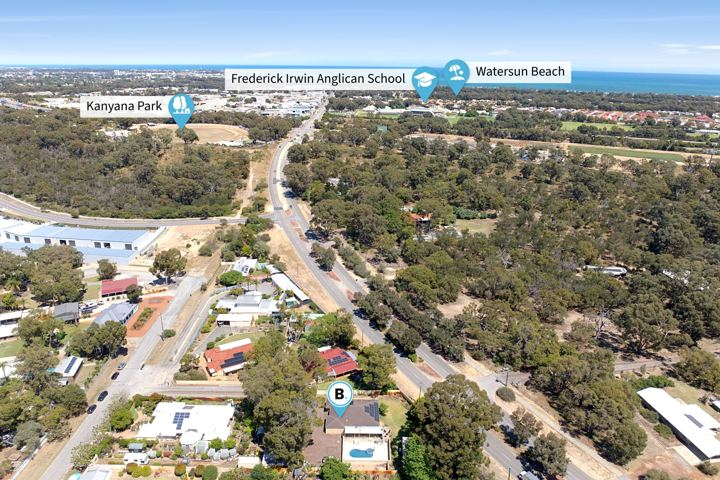
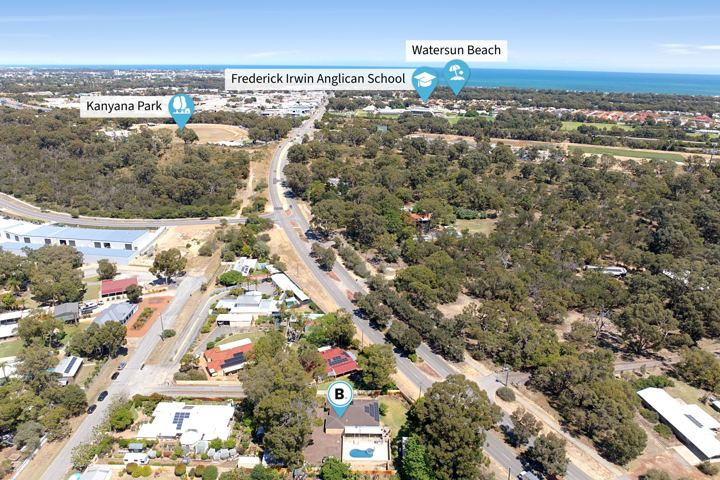
14 Palomino: school/beach labels re-laid (beach label above its pin)
Claude-Session: https://claude.ai/code/session_01A5qGg2LnJXxgSHoMQFvEEG

Changed region(s): [[0.55, 0.0625, 0.7944, 0.1875]]

diff --git a/aerials/02-nov-2026/index.html b/aerials/02-nov-2026/index.html
@@ -5,4 +5,4 @@ body{margin:0;background:var(--bg);color:var(--fg);font:15px/1.45 system-ui,-app
 header,section{max-width:1400px;margin:auto;padding:18px 16px}h1{font-size:20px;margin:0}h2{font-size:17px;margin:0}header p,section p{color:var(--mut);margin:4px 0 0}
 .ed{margin-left:10px;color:var(--acc);font-weight:600;text-decoration:none}a{color:var(--acc)}
 .chk{margin-top:10px}.chk summary{cursor:pointer;color:var(--mut);font-weight:600}.chk iframe{width:100%;height:420px;border:0;border-radius:6px;margin-top:6px;background:#111}.g{display:grid;grid-template-columns:repeat(auto-fill,minmax(280px,1fr));gap:8px;margin-top:10px}.g img{width:100%;display:block;border-radius:4px}</style></head>
-<body><header><h1>Drone edits — Mon 2 Nov 2026</h1><p>Tap a photo for full size. <b>Edit</b> opens the job in the <a href="/pins/">editor</a> with all its pins and settings.</p></header><section><h2>14 Palomino Pl, Greenfields WA 6210</h2><p>David Beshay · Beshay Realty · 7 photos (top-downs first) <a class="ed" href="/pins/?open=02-nov-2026/14_palomino_pl">Edit</a><a class="ed" href="/lots/?img=/aerials/02-nov-2026/14_palomino_pl/src/DJI_20261102132705_0002_D_r270.jpg&street=Palomino%20Place" target="_blank">Lots</a><a class="ed" href="14_palomino_pl/check.html" target="_blank">Check map</a></p><div class="g"><a href="14_palomino_pl/DJI_20261102132705_0002_D_r270.jpg?v=1793760000" target="_blank"><img loading="lazy" src="14_palomino_pl/t/DJI_20261102132705_0002_D_r270.jpg?v=1793760000" alt=""></a><a href="14_palomino_pl/DJI_20261102132642_0001_D_r270.jpg?v=1793760000" target="_blank"><img loading="lazy" src="14_palomino_pl/t/DJI_20261102132642_0001_D_r270.jpg?v=1793760000" alt=""></a><a href="14_palomino_pl/DJI_20261102132733_0003_D.jpg?v=1793760000" target="_blank"><img loading="lazy" src="14_palomino_pl/t/DJI_20261102132733_0003_D.jpg?v=1793760000" alt=""></a><a href="14_palomino_pl/DJI_20261102132745_0004_D.jpg?v=1793760000" target="_blank"><img loading="lazy" src="14_palomino_pl/t/DJI_20261102132745_0004_D.jpg?v=1793760000" alt=""></a><a href="14_palomino_pl/DJI_20261102132803_0005_D.jpg?v=1793760000" target="_blank"><img loading="lazy" src="14_palomino_pl/t/DJI_20261102132803_0005_D.jpg?v=1793760000" alt=""></a><a href="14_palomino_pl/DJI_20261102132828_0006_D.jpg?v=1793760000" target="_blank"><img loading="lazy" src="14_palomino_pl/t/DJI_20261102132828_0006_D.jpg?v=1793760000" alt=""></a><a href="14_palomino_pl/DJI_20261102132849_0007_D.jpg?v=1793760000" target="_blank"><img loading="lazy" src="14_palomino_pl/t/DJI_20261102132849_0007_D.jpg?v=1793760000" alt=""></a></div><details class="chk" open><summary>Quick check — boundary + 7 pinned places</summary><iframe loading="lazy" src="14_palomino_pl/check.html?v=1793662742" title="Boundary and places check"></iframe></details></section><section><h2>32B Hetherington Dr, Bull Creek WA 6149</h2><p>Raymond Chen · Top Realty · 8 photos (top-downs first) <a class="ed" href="/pins/?open=02-nov-2026/32b_hetherington_dr">Edit</a><a class="ed" href="/lots/?img=/aerials/02-nov-2026/32b_hetherington_dr/src/dji_fly_20261102_120130_0118_1793624048044_photo_r180.jpg&street=Hetherington%20Drive" target="_blank">Lots</a><a class="ed" href="32b_hetherington_dr/check.html" target="_blank">Check map</a></p><div class="g"><a href="32b_hetherington_dr/dji_fly_20261102_120130_0118_1793624048044_photo_r180.jpg?v=1793662746" target="_blank"><img loading="lazy" src="32b_hetherington_dr/t/dji_fly_20261102_120130_0118_1793624048044_photo_r180.jpg?v=1793662746" alt=""></a><a href="32b_hetherington_dr/dji_fly_20261102_120116_0117_1793624048701_photo_r90.jpg?v=1793662746" target="_blank"><img loading="lazy" src="32b_hetherington_dr/t/dji_fly_20261102_120116_0117_1793624048701_photo_r90.jpg?v=1793662746" alt=""></a><a href="32b_hetherington_dr/dji_fly_20261102_120204_0119_1793624047389_photo.jpg?v=1793662746" target="_blank"><img loading="lazy" src="32b_hetherington_dr/t/dji_fly_20261102_120204_0119_1793624047389_photo.jpg?v=1793662746" alt=""></a><a href="32b_hetherington_dr/dji_fly_20261102_120232_0120_1793624046706_photo.jpg?v=1793662746" target="_blank"><img loading="lazy" src="32b_hetherington_dr/t/dji_fly_20261102_120232_0120_1793624046706_photo.jpg?v=1793662746" alt=""></a><a href="32b_hetherington_dr/dji_fly_20261102_120314_0121_1793624046011_photo.jpg?v=1793662746" target="_blank"><img loading="lazy" src="32b_hetherington_dr/t/dji_fly_20261102_120314_0121_1793624046011_photo.jpg?v=1793662746" alt=""></a><a href="32b_hetherington_dr/dji_fly_20261102_120404_0123_1793624044695_photo.jpg?v=1793662746" target="_blank"><img loading="lazy" src="32b_hetherington_dr/t/dji_fly_20261102_120404_0123_1793624044695_photo.jpg?v=1793662746" alt=""></a><a href="32b_hetherington_dr/dji_fly_20261102_120458_0125_1793624043444_photo.jpg?v=1793662746" target="_blank"><img loading="lazy" src="32b_hetherington_dr/t/dji_fly_20261102_120458_0125_1793624043444_photo.jpg?v=1793662746" alt=""></a><a href="32b_hetherington_dr/dji_fly_20261102_120518_0126_1793624042763_photo.jpg?v=1793662746" target="_blank"><img loading="lazy" src="32b_hetherington_dr/t/dji_fly_20261102_120518_0126_1793624042763_photo.jpg?v=1793662746" alt=""></a></div><details class="chk" open><summary>Quick check — boundary + 12 pinned places</summary><iframe loading="lazy" src="32b_hetherington_dr/check.html?v=1793662749" title="Boundary and places check"></iframe></details></section><section><h2>3 Bundalla Ct, Kelmscott WA 6111</h2><p>Naomi Nation (owner) · 11 photos (top-downs first) <a class="ed" href="/pins/?open=02-nov-2026/3_bundalla_ct">Edit</a><a class="ed" href="/lots/?img=/aerials/02-nov-2026/3_bundalla_ct/src/dji_fly_20261102_123202_0964_1793609126302_photo_r90.JPG&street=Bundalla%20Court" target="_blank">Lots</a><a class="ed" href="3_bundalla_ct/check.html" target="_blank">Check map</a></p><div class="g"><a href="3_bundalla_ct/dji_fly_20261102_123202_0964_1793609126302_photo_r90.jpg?v=1793750000" target="_blank"><img loading="lazy" src="3_bundalla_ct/t/dji_fly_20261102_123202_0964_1793609126302_photo_r90.jpg?v=1793750000" alt=""></a><a href="3_bundalla_ct/dji_fly_20261102_123204_0965_1793609124788_photo.jpg?v=1793662759" target="_blank"><img loading="lazy" src="3_bundalla_ct/t/dji_fly_20261102_123204_0965_1793609124788_photo.jpg?v=1793662759" alt=""></a><a href="3_bundalla_ct/dji_fly_20261102_122642_0955_1793609139081_photo.jpg?v=1793662759" target="_blank"><img loading="lazy" src="3_bundalla_ct/t/dji_fly_20261102_122642_0955_1793609139081_photo.jpg?v=1793662759" alt=""></a><a href="3_bundalla_ct/dji_fly_20261102_122920_0956_1793609137586_photo.jpg?v=1793662759" target="_blank"><img loading="lazy" src="3_bundalla_ct/t/dji_fly_20261102_122920_0956_1793609137586_photo.jpg?v=1793662759" alt=""></a><a href="3_bundalla_ct/dji_fly_20261102_122934_0957_1793609136345_photo.jpg?v=1793662759" target="_blank"><img loading="lazy" src="3_bundalla_ct/t/dji_fly_20261102_122934_0957_1793609136345_photo.jpg?v=1793662759" alt=""></a><a href="3_bundalla_ct/dji_fly_20261102_122952_0958_1793609134672_photo.jpg?v=1793662759" target="_blank"><img loading="lazy" src="3_bundalla_ct/t/dji_fly_20261102_122952_0958_1793609134672_photo.jpg?v=1793662759" alt=""></a><a href="3_bundalla_ct/dji_fly_20261102_123010_0959_1793609132937_photo.jpg?v=1793662759" target="_blank"><img loading="lazy" src="3_bundalla_ct/t/dji_fly_20261102_123010_0959_1793609132937_photo.jpg?v=1793662759" alt=""></a><a href="3_bundalla_ct/dji_fly_20261102_123040_0960_1793609131670_photo.jpg?v=1793662759" target="_blank"><img loading="lazy" src="3_bundalla_ct/t/dji_fly_20261102_123040_0960_1793609131670_photo.jpg?v=1793662759" alt=""></a><a href="3_bundalla_ct/dji_fly_20261102_123102_0961_1793609130439_photo.jpg?v=1793662759" target="_blank"><img loading="lazy" src="3_bundalla_ct/t/dji_fly_20261102_123102_0961_1793609130439_photo.jpg?v=1793662759" alt=""></a><a href="3_bundalla_ct/dji_fly_20261102_123116_0962_1793609128996_photo.jpg?v=1793662759" target="_blank"><img loading="lazy" src="3_bundalla_ct/t/dji_fly_20261102_123116_0962_1793609128996_photo.jpg?v=1793662759" alt=""></a><a href="3_bundalla_ct/dji_fly_20261102_123128_0963_1793609127652_photo.jpg?v=1793662759" target="_blank"><img loading="lazy" src="3_bundalla_ct/t/dji_fly_20261102_123128_0963_1793609127652_photo.jpg?v=1793662759" alt=""></a></div><details class="chk" open><summary>Quick check — boundary + 19 pinned places</summary><iframe loading="lazy" src="3_bundalla_ct/check.html?v=1793662762" title="Boundary and places check"></iframe></details></section><section><h2>14 Graceful St, Byford WA 6122</h2><p>Lou Smith · Harcourts · 9 photos (top-downs first) <a class="ed" href="/pins/?open=02-nov-2026/14_graceful_st">Edit</a><a class="ed" href="/lots/?img=/aerials/02-nov-2026/14_graceful_st/src/DJI_20261102201951_0035_D.jpg&street=Graceful%20Street" target="_blank">Lots</a><a class="ed" href="14_graceful_st/check.html" target="_blank">Check map</a></p><div class="g"><a href="14_graceful_st/DJI_20261102201951_0035_D.jpg?v=1793662765" target="_blank"><img loading="lazy" src="14_graceful_st/t/DJI_20261102201951_0035_D.jpg?v=1793662765" alt=""></a><a href="14_graceful_st/DJI_20261102201940_0034_D_r90.jpg?v=1793740000" target="_blank"><img loading="lazy" src="14_graceful_st/t/DJI_20261102201940_0034_D_r90.jpg?v=1793740000" alt=""></a><a href="14_graceful_st/DJI_20261102202018_0036_D.jpg?v=1793662765" target="_blank"><img loading="lazy" src="14_graceful_st/t/DJI_20261102202018_0036_D.jpg?v=1793662765" alt=""></a><a href="14_graceful_st/DJI_20261102202056_0038_D.jpg?v=1793662765" target="_blank"><img loading="lazy" src="14_graceful_st/t/DJI_20261102202056_0038_D.jpg?v=1793662765" alt=""></a><a href="14_graceful_st/DJI_20261102202114_0039_D.jpg?v=1793662765" target="_blank"><img loading="lazy" src="14_graceful_st/t/DJI_20261102202114_0039_D.jpg?v=1793662765" alt=""></a><a href="14_graceful_st/DJI_20261102202130_0040_D.jpg?v=1793662765" target="_blank"><img loading="lazy" src="14_graceful_st/t/DJI_20261102202130_0040_D.jpg?v=1793662765" alt=""></a><a href="14_graceful_st/DJI_20261102202149_0041_D.jpg?v=1793662765" target="_blank"><img loading="lazy" src="14_graceful_st/t/DJI_20261102202149_0041_D.jpg?v=1793662765" alt=""></a><a href="14_graceful_st/DJI_20261102202206_0042_D.jpg?v=1793662765" target="_blank"><img loading="lazy" src="14_graceful_st/t/DJI_20261102202206_0042_D.jpg?v=1793662765" alt=""></a><a href="14_graceful_st/DJI_20261102202224_0043_D.jpg?v=1793662765" target="_blank"><img loading="lazy" src="14_graceful_st/t/DJI_20261102202224_0043_D.jpg?v=1793662765" alt=""></a></div><details class="chk" open><summary>Quick check — boundary + 11 pinned places</summary><iframe loading="lazy" src="14_graceful_st/check.html?v=1793662766" title="Boundary and places check"></iframe></details></section><section><h2>22 Sandridge St, Gosnells WA 6110</h2><p>Danny Sharrett · Century 21 Team Brockhurst · 10 photos (top-downs first) <a class="ed" href="/pins/?open=02-nov-2026/22_sandridge_st">Edit</a><a class="ed" href="/lots/?img=/aerials/02-nov-2026/22_sandridge_st/src/DJI_20261102175303_0025_D.jpg&street=Sandridge%20Street" target="_blank">Lots</a><a class="ed" href="22_sandridge_st/check.html" target="_blank">Check map</a></p><div class="g"><a href="22_sandridge_st/22_sandridge_st_potential_lots.jpg" target="_blank"><img loading="lazy" src="22_sandridge_st/t/22_sandridge_st_potential_lots.jpg" alt="Potential 2 lots"></a><a href="22_sandridge_st/DJI_20261102175303_0025_D.jpg?v=1793730000" target="_blank"><img loading="lazy" src="22_sandridge_st/t/DJI_20261102175303_0025_D.jpg?v=1793730000" alt=""></a><a href="22_sandridge_st/DJI_20261102175251_0024_D_r270.jpg?v=1793740000" target="_blank"><img loading="lazy" src="22_sandridge_st/t/DJI_20261102175251_0024_D_r270.jpg?v=1793740000" alt=""></a><a href="22_sandridge_st/DJI_20261102175327_0026_D.jpg?v=1793730000" target="_blank"><img loading="lazy" src="22_sandridge_st/t/DJI_20261102175327_0026_D.jpg?v=1793730000" alt=""></a><a href="22_sandridge_st/DJI_20261102175340_0027_D.jpg?v=1793730000" target="_blank"><img loading="lazy" src="22_sandridge_st/t/DJI_20261102175340_0027_D.jpg?v=1793730000" alt=""></a><a href="22_sandridge_st/DJI_20261102175355_0028_D.jpg?v=1793730000" target="_blank"><img loading="lazy" src="22_sandridge_st/t/DJI_20261102175355_0028_D.jpg?v=1793730000" alt=""></a><a href="22_sandridge_st/DJI_20261102175407_0029_D.jpg?v=1793730000" target="_blank"><img loading="lazy" src="22_sandridge_st/t/DJI_20261102175407_0029_D.jpg?v=1793730000" alt=""></a><a href="22_sandridge_st/DJI_20261102175423_0030_D.jpg?v=1793730000" target="_blank"><img loading="lazy" src="22_sandridge_st/t/DJI_20261102175423_0030_D.jpg?v=1793730000" alt=""></a><a href="22_sandridge_st/DJI_20261102175436_0031_D.jpg?v=1793730000" target="_blank"><img loading="lazy" src="22_sandridge_st/t/DJI_20261102175436_0031_D.jpg?v=1793730000" alt=""></a><a href="22_sandridge_st/DJI_20261102175449_0032_D.jpg?v=1793730000" target="_blank"><img loading="lazy" src="22_sandridge_st/t/DJI_20261102175449_0032_D.jpg?v=1793730000" alt=""></a><a href="22_sandridge_st/DJI_20261102175502_0033_D.jpg?v=1793730000" target="_blank"><img loading="lazy" src="22_sandridge_st/t/DJI_20261102175502_0033_D.jpg?v=1793730000" alt=""></a></div><details class="chk" open><summary>Quick check — boundary + 14 pinned places</summary><iframe loading="lazy" src="22_sandridge_st/check.html?v=1793662772" title="Boundary and places check"></iframe></details></section><section><h2>10 Spotted Wy, Alkimos WA 6038</h2><p>Brodie Morris · Northern Coast · 8 photos (top-downs first) <a class="ed" href="/pins/?open=02-nov-2026/10_spotted_wy">Edit</a><a class="ed" href="/lots/?img=/aerials/02-nov-2026/10_spotted_wy/src/dji_fly_20261102_161908_0127_1793624042210_photo_r270.jpg&street=Spotted%20Way" target="_blank">Lots</a><a class="ed" href="10_spotted_wy/check.html" target="_blank">Check map</a></p><div class="g"><a href="10_spotted_wy/dji_fly_20261102_161908_0127_1793624042210_photo_r270.jpg?v=1793740000" target="_blank"><img loading="lazy" src="10_spotted_wy/t/dji_fly_20261102_161908_0127_1793624042210_photo_r270.jpg?v=1793740000" alt=""></a><a href="10_spotted_wy/dji_fly_20261102_161928_0128_1793624041469_photo_r180.jpg?v=1793662776" target="_blank"><img loading="lazy" src="10_spotted_wy/t/dji_fly_20261102_161928_0128_1793624041469_photo_r180.jpg?v=1793662776" alt=""></a><a href="10_spotted_wy/dji_fly_20261102_162120_0130_1793624040060_photo.jpg?v=1793662776" target="_blank"><img loading="lazy" src="10_spotted_wy/t/dji_fly_20261102_162120_0130_1793624040060_photo.jpg?v=1793662776" alt=""></a><a href="10_spotted_wy/dji_fly_20261102_162206_0131_1793624039343_photo.jpg?v=1793662776" target="_blank"><img loading="lazy" src="10_spotted_wy/t/dji_fly_20261102_162206_0131_1793624039343_photo.jpg?v=1793662776" alt=""></a><a href="10_spotted_wy/dji_fly_20261102_162304_0133_1793624037995_photo.jpg?v=1793662776" target="_blank"><img loading="lazy" src="10_spotted_wy/t/dji_fly_20261102_162304_0133_1793624037995_photo.jpg?v=1793662776" alt=""></a><a href="10_spotted_wy/dji_fly_20261102_162342_0134_1793624037277_photo.jpg?v=1793662776" target="_blank"><img loading="lazy" src="10_spotted_wy/t/dji_fly_20261102_162342_0134_1793624037277_photo.jpg?v=1793662776" alt=""></a><a href="10_spotted_wy/dji_fly_20261102_162530_0136_1793624035993_photo.jpg?v=1793662776" target="_blank"><img loading="lazy" src="10_spotted_wy/t/dji_fly_20261102_162530_0136_1793624035993_photo.jpg?v=1793662776" alt=""></a><a href="10_spotted_wy/dji_fly_20261102_162618_0137_1793624035325_photo.jpg?v=1793662776" target="_blank"><img loading="lazy" src="10_spotted_wy/t/dji_fly_20261102_162618_0137_1793624035325_photo.jpg?v=1793662776" alt=""></a></div><details class="chk" open><summary>Quick check — boundary + 12 pinned places</summary><iframe loading="lazy" src="10_spotted_wy/check.html?v=1793662778" title="Boundary and places check"></iframe></details></section><section><h2>9/95 Tyler St, Tuart Hill WA 6060</h2><p>Telaya · Holdsworth · 9 photos (top-downs first) <a class="ed" href="/pins/?open=02-nov-2026/9_95_tyler_st">Edit</a><a class="ed" href="/lots/?img=/aerials/02-nov-2026/9_95_tyler_st/src/dji_fly_20261102_173256_0139_1793624033900_photo_r90.jpg&street=Tyler%20Street" target="_blank">Lots</a><a class="ed" href="9_95_tyler_st/check.html" target="_blank">Check map</a></p><div class="g"><a href="9_95_tyler_st/dji_fly_20261102_173256_0139_1793624033900_photo_r90.jpg?v=1793662783" target="_blank"><img loading="lazy" src="9_95_tyler_st/t/dji_fly_20261102_173256_0139_1793624033900_photo_r90.jpg?v=1793662783" alt=""></a><a href="9_95_tyler_st/dji_fly_20261102_173246_0138_1793624034672_photo_r90.jpg?v=1793662783" target="_blank"><img loading="lazy" src="9_95_tyler_st/t/dji_fly_20261102_173246_0138_1793624034672_photo_r90.jpg?v=1793662783" alt=""></a><a href="9_95_tyler_st/dji_fly_20261102_173322_0140_1793624033230_photo.jpg?v=1793662783" target="_blank"><img loading="lazy" src="9_95_tyler_st/t/dji_fly_20261102_173322_0140_1793624033230_photo.jpg?v=1793662783" alt=""></a><a href="9_95_tyler_st/dji_fly_20261102_173456_0141_1793624032570_photo.jpg?v=1793662783" target="_blank"><img loading="lazy" src="9_95_tyler_st/t/dji_fly_20261102_173456_0141_1793624032570_photo.jpg?v=1793662783" alt=""></a><a href="9_95_tyler_st/dji_fly_20261102_173538_0143_1793624031197_photo.jpg?v=1793662783" target="_blank"><img loading="lazy" src="9_95_tyler_st/t/dji_fly_20261102_173538_0143_1793624031197_photo.jpg?v=1793662783" alt=""></a><a href="9_95_tyler_st/dji_fly_20261102_173558_0144_1793624030502_photo.jpg?v=1793662783" target="_blank"><img loading="lazy" src="9_95_tyler_st/t/dji_fly_20261102_173558_0144_1793624030502_photo.jpg?v=1793662783" alt=""></a><a href="9_95_tyler_st/dji_fly_20261102_173628_0145_1793624029861_photo.jpg?v=1793662783" target="_blank"><img loading="lazy" src="9_95_tyler_st/t/dji_fly_20261102_173628_0145_1793624029861_photo.jpg?v=1793662783" alt=""></a><a href="9_95_tyler_st/dji_fly_20261102_173650_0146_1793624029124_photo.jpg?v=1793662783" target="_blank"><img loading="lazy" src="9_95_tyler_st/t/dji_fly_20261102_173650_0146_1793624029124_photo.jpg?v=1793662783" alt=""></a><a href="9_95_tyler_st/dji_fly_20261102_173710_0147_1793624028372_photo.jpg?v=1793662783" target="_blank"><img loading="lazy" src="9_95_tyler_st/t/dji_fly_20261102_173710_0147_1793624028372_photo.jpg?v=1793662783" alt=""></a></div><details class="chk" open><summary>Quick check — boundary + 10 pinned places</summary><iframe loading="lazy" src="9_95_tyler_st/check.html?v=1793662785" title="Boundary and places check"></iframe></details></section><script src="../dl.js"></script></body></html>
+<body><header><h1>Drone edits — Mon 2 Nov 2026</h1><p>Tap a photo for full size. <b>Edit</b> opens the job in the <a href="/pins/">editor</a> with all its pins and settings.</p></header><section><h2>14 Palomino Pl, Greenfields WA 6210</h2><p>David Beshay · Beshay Realty · 7 photos (top-downs first) <a class="ed" href="/pins/?open=02-nov-2026/14_palomino_pl">Edit</a><a class="ed" href="/lots/?img=/aerials/02-nov-2026/14_palomino_pl/src/DJI_20261102132705_0002_D_r270.jpg&street=Palomino%20Place" target="_blank">Lots</a><a class="ed" href="14_palomino_pl/check.html" target="_blank">Check map</a></p><div class="g"><a href="14_palomino_pl/DJI_20261102132705_0002_D_r270.jpg?v=1793770000" target="_blank"><img loading="lazy" src="14_palomino_pl/t/DJI_20261102132705_0002_D_r270.jpg?v=1793770000" alt=""></a><a href="14_palomino_pl/DJI_20261102132642_0001_D_r270.jpg?v=1793770000" target="_blank"><img loading="lazy" src="14_palomino_pl/t/DJI_20261102132642_0001_D_r270.jpg?v=1793770000" alt=""></a><a href="14_palomino_pl/DJI_20261102132733_0003_D.jpg?v=1793770000" target="_blank"><img loading="lazy" src="14_palomino_pl/t/DJI_20261102132733_0003_D.jpg?v=1793770000" alt=""></a><a href="14_palomino_pl/DJI_20261102132745_0004_D.jpg?v=1793770000" target="_blank"><img loading="lazy" src="14_palomino_pl/t/DJI_20261102132745_0004_D.jpg?v=1793770000" alt=""></a><a href="14_palomino_pl/DJI_20261102132803_0005_D.jpg?v=1793770000" target="_blank"><img loading="lazy" src="14_palomino_pl/t/DJI_20261102132803_0005_D.jpg?v=1793770000" alt=""></a><a href="14_palomino_pl/DJI_20261102132828_0006_D.jpg?v=1793770000" target="_blank"><img loading="lazy" src="14_palomino_pl/t/DJI_20261102132828_0006_D.jpg?v=1793770000" alt=""></a><a href="14_palomino_pl/DJI_20261102132849_0007_D.jpg?v=1793770000" target="_blank"><img loading="lazy" src="14_palomino_pl/t/DJI_20261102132849_0007_D.jpg?v=1793770000" alt=""></a></div><details class="chk" open><summary>Quick check — boundary + 7 pinned places</summary><iframe loading="lazy" src="14_palomino_pl/check.html?v=1793662742" title="Boundary and places check"></iframe></details></section><section><h2>32B Hetherington Dr, Bull Creek WA 6149</h2><p>Raymond Chen · Top Realty · 8 photos (top-downs first) <a class="ed" href="/pins/?open=02-nov-2026/32b_hetherington_dr">Edit</a><a class="ed" href="/lots/?img=/aerials/02-nov-2026/32b_hetherington_dr/src/dji_fly_20261102_120130_0118_1793624048044_photo_r180.jpg&street=Hetherington%20Drive" target="_blank">Lots</a><a class="ed" href="32b_hetherington_dr/check.html" target="_blank">Check map</a></p><div class="g"><a href="32b_hetherington_dr/dji_fly_20261102_120130_0118_1793624048044_photo_r180.jpg?v=1793662746" target="_blank"><img loading="lazy" src="32b_hetherington_dr/t/dji_fly_20261102_120130_0118_1793624048044_photo_r180.jpg?v=1793662746" alt=""></a><a href="32b_hetherington_dr/dji_fly_20261102_120116_0117_1793624048701_photo_r90.jpg?v=1793662746" target="_blank"><img loading="lazy" src="32b_hetherington_dr/t/dji_fly_20261102_120116_0117_1793624048701_photo_r90.jpg?v=1793662746" alt=""></a><a href="32b_hetherington_dr/dji_fly_20261102_120204_0119_1793624047389_photo.jpg?v=1793662746" target="_blank"><img loading="lazy" src="32b_hetherington_dr/t/dji_fly_20261102_120204_0119_1793624047389_photo.jpg?v=1793662746" alt=""></a><a href="32b_hetherington_dr/dji_fly_20261102_120232_0120_1793624046706_photo.jpg?v=1793662746" target="_blank"><img loading="lazy" src="32b_hetherington_dr/t/dji_fly_20261102_120232_0120_1793624046706_photo.jpg?v=1793662746" alt=""></a><a href="32b_hetherington_dr/dji_fly_20261102_120314_0121_1793624046011_photo.jpg?v=1793662746" target="_blank"><img loading="lazy" src="32b_hetherington_dr/t/dji_fly_20261102_120314_0121_1793624046011_photo.jpg?v=1793662746" alt=""></a><a href="32b_hetherington_dr/dji_fly_20261102_120404_0123_1793624044695_photo.jpg?v=1793662746" target="_blank"><img loading="lazy" src="32b_hetherington_dr/t/dji_fly_20261102_120404_0123_1793624044695_photo.jpg?v=1793662746" alt=""></a><a href="32b_hetherington_dr/dji_fly_20261102_120458_0125_1793624043444_photo.jpg?v=1793662746" target="_blank"><img loading="lazy" src="32b_hetherington_dr/t/dji_fly_20261102_120458_0125_1793624043444_photo.jpg?v=1793662746" alt=""></a><a href="32b_hetherington_dr/dji_fly_20261102_120518_0126_1793624042763_photo.jpg?v=1793662746" target="_blank"><img loading="lazy" src="32b_hetherington_dr/t/dji_fly_20261102_120518_0126_1793624042763_photo.jpg?v=1793662746" alt=""></a></div><details class="chk" open><summary>Quick check — boundary + 12 pinned places</summary><iframe loading="lazy" src="32b_hetherington_dr/check.html?v=1793662749" title="Boundary and places check"></iframe></details></section><section><h2>3 Bundalla Ct, Kelmscott WA 6111</h2><p>Naomi Nation (owner) · 11 photos (top-downs first) <a class="ed" href="/pins/?open=02-nov-2026/3_bundalla_ct">Edit</a><a class="ed" href="/lots/?img=/aerials/02-nov-2026/3_bundalla_ct/src/dji_fly_20261102_123202_0964_1793609126302_photo_r90.JPG&street=Bundalla%20Court" target="_blank">Lots</a><a class="ed" href="3_bundalla_ct/check.html" target="_blank">Check map</a></p><div class="g"><a href="3_bundalla_ct/dji_fly_20261102_123202_0964_1793609126302_photo_r90.jpg?v=1793750000" target="_blank"><img loading="lazy" src="3_bundalla_ct/t/dji_fly_20261102_123202_0964_1793609126302_photo_r90.jpg?v=1793750000" alt=""></a><a href="3_bundalla_ct/dji_fly_20261102_123204_0965_1793609124788_photo.jpg?v=1793662759" target="_blank"><img loading="lazy" src="3_bundalla_ct/t/dji_fly_20261102_123204_0965_1793609124788_photo.jpg?v=1793662759" alt=""></a><a href="3_bundalla_ct/dji_fly_20261102_122642_0955_1793609139081_photo.jpg?v=1793662759" target="_blank"><img loading="lazy" src="3_bundalla_ct/t/dji_fly_20261102_122642_0955_1793609139081_photo.jpg?v=1793662759" alt=""></a><a href="3_bundalla_ct/dji_fly_20261102_122920_0956_1793609137586_photo.jpg?v=1793662759" target="_blank"><img loading="lazy" src="3_bundalla_ct/t/dji_fly_20261102_122920_0956_1793609137586_photo.jpg?v=1793662759" alt=""></a><a href="3_bundalla_ct/dji_fly_20261102_122934_0957_1793609136345_photo.jpg?v=1793662759" target="_blank"><img loading="lazy" src="3_bundalla_ct/t/dji_fly_20261102_122934_0957_1793609136345_photo.jpg?v=1793662759" alt=""></a><a href="3_bundalla_ct/dji_fly_20261102_122952_0958_1793609134672_photo.jpg?v=1793662759" target="_blank"><img loading="lazy" src="3_bundalla_ct/t/dji_fly_20261102_122952_0958_1793609134672_photo.jpg?v=1793662759" alt=""></a><a href="3_bundalla_ct/dji_fly_20261102_123010_0959_1793609132937_photo.jpg?v=1793662759" target="_blank"><img loading="lazy" src="3_bundalla_ct/t/dji_fly_20261102_123010_0959_1793609132937_photo.jpg?v=1793662759" alt=""></a><a href="3_bundalla_ct/dji_fly_20261102_123040_0960_1793609131670_photo.jpg?v=1793662759" target="_blank"><img loading="lazy" src="3_bundalla_ct/t/dji_fly_20261102_123040_0960_1793609131670_photo.jpg?v=1793662759" alt=""></a><a href="3_bundalla_ct/dji_fly_20261102_123102_0961_1793609130439_photo.jpg?v=1793662759" target="_blank"><img loading="lazy" src="3_bundalla_ct/t/dji_fly_20261102_123102_0961_1793609130439_photo.jpg?v=1793662759" alt=""></a><a href="3_bundalla_ct/dji_fly_20261102_123116_0962_1793609128996_photo.jpg?v=1793662759" target="_blank"><img loading="lazy" src="3_bundalla_ct/t/dji_fly_20261102_123116_0962_1793609128996_photo.jpg?v=1793662759" alt=""></a><a href="3_bundalla_ct/dji_fly_20261102_123128_0963_1793609127652_photo.jpg?v=1793662759" target="_blank"><img loading="lazy" src="3_bundalla_ct/t/dji_fly_20261102_123128_0963_1793609127652_photo.jpg?v=1793662759" alt=""></a></div><details class="chk" open><summary>Quick check — boundary + 19 pinned places</summary><iframe loading="lazy" src="3_bundalla_ct/check.html?v=1793662762" title="Boundary and places check"></iframe></details></section><section><h2>14 Graceful St, Byford WA 6122</h2><p>Lou Smith · Harcourts · 9 photos (top-downs first) <a class="ed" href="/pins/?open=02-nov-2026/14_graceful_st">Edit</a><a class="ed" href="/lots/?img=/aerials/02-nov-2026/14_graceful_st/src/DJI_20261102201951_0035_D.jpg&street=Graceful%20Street" target="_blank">Lots</a><a class="ed" href="14_graceful_st/check.html" target="_blank">Check map</a></p><div class="g"><a href="14_graceful_st/DJI_20261102201951_0035_D.jpg?v=1793662765" target="_blank"><img loading="lazy" src="14_graceful_st/t/DJI_20261102201951_0035_D.jpg?v=1793662765" alt=""></a><a href="14_graceful_st/DJI_20261102201940_0034_D_r90.jpg?v=1793740000" target="_blank"><img loading="lazy" src="14_graceful_st/t/DJI_20261102201940_0034_D_r90.jpg?v=1793740000" alt=""></a><a href="14_graceful_st/DJI_20261102202018_0036_D.jpg?v=1793662765" target="_blank"><img loading="lazy" src="14_graceful_st/t/DJI_20261102202018_0036_D.jpg?v=1793662765" alt=""></a><a href="14_graceful_st/DJI_20261102202056_0038_D.jpg?v=1793662765" target="_blank"><img loading="lazy" src="14_graceful_st/t/DJI_20261102202056_0038_D.jpg?v=1793662765" alt=""></a><a href="14_graceful_st/DJI_20261102202114_0039_D.jpg?v=1793662765" target="_blank"><img loading="lazy" src="14_graceful_st/t/DJI_20261102202114_0039_D.jpg?v=1793662765" alt=""></a><a href="14_graceful_st/DJI_20261102202130_0040_D.jpg?v=1793662765" target="_blank"><img loading="lazy" src="14_graceful_st/t/DJI_20261102202130_0040_D.jpg?v=1793662765" alt=""></a><a href="14_graceful_st/DJI_20261102202149_0041_D.jpg?v=1793662765" target="_blank"><img loading="lazy" src="14_graceful_st/t/DJI_20261102202149_0041_D.jpg?v=1793662765" alt=""></a><a href="14_graceful_st/DJI_20261102202206_0042_D.jpg?v=1793662765" target="_blank"><img loading="lazy" src="14_graceful_st/t/DJI_20261102202206_0042_D.jpg?v=1793662765" alt=""></a><a href="14_graceful_st/DJI_20261102202224_0043_D.jpg?v=1793662765" target="_blank"><img loading="lazy" src="14_graceful_st/t/DJI_20261102202224_0043_D.jpg?v=1793662765" alt=""></a></div><details class="chk" open><summary>Quick check — boundary + 11 pinned places</summary><iframe loading="lazy" src="14_graceful_st/check.html?v=1793662766" title="Boundary and places check"></iframe></details></section><section><h2>22 Sandridge St, Gosnells WA 6110</h2><p>Danny Sharrett · Century 21 Team Brockhurst · 10 photos (top-downs first) <a class="ed" href="/pins/?open=02-nov-2026/22_sandridge_st">Edit</a><a class="ed" href="/lots/?img=/aerials/02-nov-2026/22_sandridge_st/src/DJI_20261102175303_0025_D.jpg&street=Sandridge%20Street" target="_blank">Lots</a><a class="ed" href="22_sandridge_st/check.html" target="_blank">Check map</a></p><div class="g"><a href="22_sandridge_st/22_sandridge_st_potential_lots.jpg" target="_blank"><img loading="lazy" src="22_sandridge_st/t/22_sandridge_st_potential_lots.jpg" alt="Potential 2 lots"></a><a href="22_sandridge_st/DJI_20261102175303_0025_D.jpg?v=1793730000" target="_blank"><img loading="lazy" src="22_sandridge_st/t/DJI_20261102175303_0025_D.jpg?v=1793730000" alt=""></a><a href="22_sandridge_st/DJI_20261102175251_0024_D_r270.jpg?v=1793740000" target="_blank"><img loading="lazy" src="22_sandridge_st/t/DJI_20261102175251_0024_D_r270.jpg?v=1793740000" alt=""></a><a href="22_sandridge_st/DJI_20261102175327_0026_D.jpg?v=1793730000" target="_blank"><img loading="lazy" src="22_sandridge_st/t/DJI_20261102175327_0026_D.jpg?v=1793730000" alt=""></a><a href="22_sandridge_st/DJI_20261102175340_0027_D.jpg?v=1793730000" target="_blank"><img loading="lazy" src="22_sandridge_st/t/DJI_20261102175340_0027_D.jpg?v=1793730000" alt=""></a><a href="22_sandridge_st/DJI_20261102175355_0028_D.jpg?v=1793730000" target="_blank"><img loading="lazy" src="22_sandridge_st/t/DJI_20261102175355_0028_D.jpg?v=1793730000" alt=""></a><a href="22_sandridge_st/DJI_20261102175407_0029_D.jpg?v=1793730000" target="_blank"><img loading="lazy" src="22_sandridge_st/t/DJI_20261102175407_0029_D.jpg?v=1793730000" alt=""></a><a href="22_sandridge_st/DJI_20261102175423_0030_D.jpg?v=1793730000" target="_blank"><img loading="lazy" src="22_sandridge_st/t/DJI_20261102175423_0030_D.jpg?v=1793730000" alt=""></a><a href="22_sandridge_st/DJI_20261102175436_0031_D.jpg?v=1793730000" target="_blank"><img loading="lazy" src="22_sandridge_st/t/DJI_20261102175436_0031_D.jpg?v=1793730000" alt=""></a><a href="22_sandridge_st/DJI_20261102175449_0032_D.jpg?v=1793730000" target="_blank"><img loading="lazy" src="22_sandridge_st/t/DJI_20261102175449_0032_D.jpg?v=1793730000" alt=""></a><a href="22_sandridge_st/DJI_20261102175502_0033_D.jpg?v=1793730000" target="_blank"><img loading="lazy" src="22_sandridge_st/t/DJI_20261102175502_0033_D.jpg?v=1793730000" alt=""></a></div><details class="chk" open><summary>Quick check — boundary + 14 pinned places</summary><iframe loading="lazy" src="22_sandridge_st/check.html?v=1793662772" title="Boundary and places check"></iframe></details></section><section><h2>10 Spotted Wy, Alkimos WA 6038</h2><p>Brodie Morris · Northern Coast · 8 photos (top-downs first) <a class="ed" href="/pins/?open=02-nov-2026/10_spotted_wy">Edit</a><a class="ed" href="/lots/?img=/aerials/02-nov-2026/10_spotted_wy/src/dji_fly_20261102_161908_0127_1793624042210_photo_r270.jpg&street=Spotted%20Way" target="_blank">Lots</a><a class="ed" href="10_spotted_wy/check.html" target="_blank">Check map</a></p><div class="g"><a href="10_spotted_wy/dji_fly_20261102_161908_0127_1793624042210_photo_r270.jpg?v=1793740000" target="_blank"><img loading="lazy" src="10_spotted_wy/t/dji_fly_20261102_161908_0127_1793624042210_photo_r270.jpg?v=1793740000" alt=""></a><a href="10_spotted_wy/dji_fly_20261102_161928_0128_1793624041469_photo_r180.jpg?v=1793662776" target="_blank"><img loading="lazy" src="10_spotted_wy/t/dji_fly_20261102_161928_0128_1793624041469_photo_r180.jpg?v=1793662776" alt=""></a><a href="10_spotted_wy/dji_fly_20261102_162120_0130_1793624040060_photo.jpg?v=1793662776" target="_blank"><img loading="lazy" src="10_spotted_wy/t/dji_fly_20261102_162120_0130_1793624040060_photo.jpg?v=1793662776" alt=""></a><a href="10_spotted_wy/dji_fly_20261102_162206_0131_1793624039343_photo.jpg?v=1793662776" target="_blank"><img loading="lazy" src="10_spotted_wy/t/dji_fly_20261102_162206_0131_1793624039343_photo.jpg?v=1793662776" alt=""></a><a href="10_spotted_wy/dji_fly_20261102_162304_0133_1793624037995_photo.jpg?v=1793662776" target="_blank"><img loading="lazy" src="10_spotted_wy/t/dji_fly_20261102_162304_0133_1793624037995_photo.jpg?v=1793662776" alt=""></a><a href="10_spotted_wy/dji_fly_20261102_162342_0134_1793624037277_photo.jpg?v=1793662776" target="_blank"><img loading="lazy" src="10_spotted_wy/t/dji_fly_20261102_162342_0134_1793624037277_photo.jpg?v=1793662776" alt=""></a><a href="10_spotted_wy/dji_fly_20261102_162530_0136_1793624035993_photo.jpg?v=1793662776" target="_blank"><img loading="lazy" src="10_spotted_wy/t/dji_fly_20261102_162530_0136_1793624035993_photo.jpg?v=1793662776" alt=""></a><a href="10_spotted_wy/dji_fly_20261102_162618_0137_1793624035325_photo.jpg?v=1793662776" target="_blank"><img loading="lazy" src="10_spotted_wy/t/dji_fly_20261102_162618_0137_1793624035325_photo.jpg?v=1793662776" alt=""></a></div><details class="chk" open><summary>Quick check — boundary + 12 pinned places</summary><iframe loading="lazy" src="10_spotted_wy/check.html?v=1793662778" title="Boundary and places check"></iframe></details></section><section><h2>9/95 Tyler St, Tuart Hill WA 6060</h2><p>Telaya · Holdsworth · 9 photos (top-downs first) <a class="ed" href="/pins/?open=02-nov-2026/9_95_tyler_st">Edit</a><a class="ed" href="/lots/?img=/aerials/02-nov-2026/9_95_tyler_st/src/dji_fly_20261102_173256_0139_1793624033900_photo_r90.jpg&street=Tyler%20Street" target="_blank">Lots</a><a class="ed" href="9_95_tyler_st/check.html" target="_blank">Check map</a></p><div class="g"><a href="9_95_tyler_st/dji_fly_20261102_173256_0139_1793624033900_photo_r90.jpg?v=1793662783" target="_blank"><img loading="lazy" src="9_95_tyler_st/t/dji_fly_20261102_173256_0139_1793624033900_photo_r90.jpg?v=1793662783" alt=""></a><a href="9_95_tyler_st/dji_fly_20261102_173246_0138_1793624034672_photo_r90.jpg?v=1793662783" target="_blank"><img loading="lazy" src="9_95_tyler_st/t/dji_fly_20261102_173246_0138_1793624034672_photo_r90.jpg?v=1793662783" alt=""></a><a href="9_95_tyler_st/dji_fly_20261102_173322_0140_1793624033230_photo.jpg?v=1793662783" target="_blank"><img loading="lazy" src="9_95_tyler_st/t/dji_fly_20261102_173322_0140_1793624033230_photo.jpg?v=1793662783" alt=""></a><a href="9_95_tyler_st/dji_fly_20261102_173456_0141_1793624032570_photo.jpg?v=1793662783" target="_blank"><img loading="lazy" src="9_95_tyler_st/t/dji_fly_20261102_173456_0141_1793624032570_photo.jpg?v=1793662783" alt=""></a><a href="9_95_tyler_st/dji_fly_20261102_173538_0143_1793624031197_photo.jpg?v=1793662783" target="_blank"><img loading="lazy" src="9_95_tyler_st/t/dji_fly_20261102_173538_0143_1793624031197_photo.jpg?v=1793662783" alt=""></a><a href="9_95_tyler_st/dji_fly_20261102_173558_0144_1793624030502_photo.jpg?v=1793662783" target="_blank"><img loading="lazy" src="9_95_tyler_st/t/dji_fly_20261102_173558_0144_1793624030502_photo.jpg?v=1793662783" alt=""></a><a href="9_95_tyler_st/dji_fly_20261102_173628_0145_1793624029861_photo.jpg?v=1793662783" target="_blank"><img loading="lazy" src="9_95_tyler_st/t/dji_fly_20261102_173628_0145_1793624029861_photo.jpg?v=1793662783" alt=""></a><a href="9_95_tyler_st/dji_fly_20261102_173650_0146_1793624029124_photo.jpg?v=1793662783" target="_blank"><img loading="lazy" src="9_95_tyler_st/t/dji_fly_20261102_173650_0146_1793624029124_photo.jpg?v=1793662783" alt=""></a><a href="9_95_tyler_st/dji_fly_20261102_173710_0147_1793624028372_photo.jpg?v=1793662783" target="_blank"><img loading="lazy" src="9_95_tyler_st/t/dji_fly_20261102_173710_0147_1793624028372_photo.jpg?v=1793662783" alt=""></a></div><details class="chk" open><summary>Quick check — boundary + 10 pinned places</summary><iframe loading="lazy" src="9_95_tyler_st/check.html?v=1793662785" title="Boundary and places check"></iframe></details></section><script src="../dl.js"></script></body></html>
